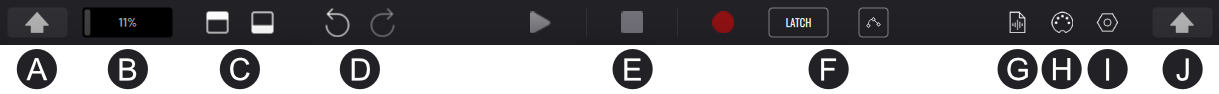
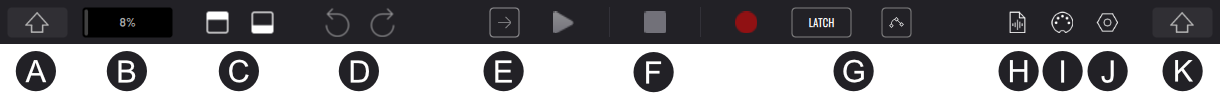
Update BAM manual

diff --git a/bam/interface.md b/bam/interface.md
@@ -116,17 +116,18 @@ The bottom toolbar consists of several different functions:
 - **(B) DSP usage meter** - Displays the current level of DSP usage
 - **(C) Show/hide top section** - Expands and minimizes the upper and lower sections
 - **(D) Undo/Redo button** - Undo/redo the last performed action
-- **(E) Transport buttons**
+- **(E) Playback follow** - Follow the song's playing position, keeping it in view
+- **(F) Transport buttons**
     - **Play button** - Start project playback
     - **Stop button** - Stop project playback
     - **Record button** - Enables recording for armed track(s)
-- **(F) Automation buttons**
+- **(G) Automation buttons**
     - **Automation record mode** - Toggle between Latch and Touch modes
     - **Re-enable automations** - This is used for reactivation of an existing step automation, when manual operation of parameters has temporarily overwritten the automation in currently playing clips
-- **(G) Export menu** - Open the [Export menu](export-menu)
-- **(H) MIDI mapping manager** - Open [MIDI mappings](midi-mappings)
-- **(I) Preferences menu** - Open the [Preferences menu](#preferences-menu)
-- **(J) Shift button** - Provides additional functions for some tools when active.
+- **(H) Export menu** - Open the [Export menu](export-menu)
+- **(I) MIDI mapping manager** - Open [MIDI mappings](midi-mappings)
+- **(J) Preferences menu** - Open the [Preferences menu](#preferences-menu)
+- **(K) Shift button** - Provides additional functions for some tools when active.
 
 Note: When using BAM AUv3 plugin in an iOS host DAW, the top and bottom sections cannot both be displayed at the same time. Expanding either section will automatically hide the other.
 

diff --git a/bam/device-rack.md b/bam/device-rack.md
@@ -31,6 +31,7 @@ and time offset values, plus provides probability and retrigger controls.
 
 The top right corner icon opens the Trigger settings panel with the following options:
 
+- **MIDI from Track** - Select track to receive MIDI from
 - **MIDI Input Channel** - Select channel to receive MIDI from (ALL will listen to MIDI from all channels)
 - **MIDI Input Device** - Select external device to receive MIDI from
 - **MIDI Output Channel** - Select MIDI channel to send MIDI to (ALL will send to all channels)
@@ -118,7 +119,7 @@ The ENGINE rack device displays the main synthesizer/generator of the track. Pre
 
 The save icon saves the current engine state as a user preset available from the [Browser](sample-manager-soundbank.md#browser).
 
-The macros icon <img src="/bam/images/device-rack/bam-beat-maker-device-rack-macros-icon.png" width="25" alt="BAM device rack macros icon" /> enables the macros editing mode. While enabled, you can add or replace macros by selecting one of the eight macro slots and pressing a parameter in the engine interface. Double pressing a macro slot will remove it.
+The macros icon <img src="/bam/images/device-rack/bam-beat-maker-device-rack-macros-icon.png" width="25" alt="BAM device rack macros icon" /> enables the macros editing mode. While enabled, you can add or replace macros by selecting one of the eight macro slots and pressing a parameter in the engine interface. Double pressing a macro slot will remove it. Saving an engine preset will save the macros as well.
 
 <img src="/bam/images/device-rack/bam-beat-maker-device-rack-macros.png" width="310" alt="BAM device rack macros editing" />
 

diff --git a/bam/matrix.md b/bam/matrix.md
@@ -91,7 +91,7 @@ The Audio Clip Properties panel - opened through the Matrix clip context menu - 
 - **(E)** Halve/double current clip length
 - **(F)** Change clip time signature
 
-Note: **(B)** designates the tempo of the loaded audio, meaning the project will treat the audio as if its tempo were the reported value when stretching it. For instance, an audio clip with a tempo of 60 BPM in the context of a project at 120 BPM will play at twice its original speed.
+Note: **(B)** designates the tempo of the loaded audio, meaning the project will treat the audio as if its tempo were the reported value when stretching it. For instance, an audio clip with a tempo of 60 BPM in a 120 BPM project will play at twice its original speed.
 
 ## Scene Follow Actions
 
